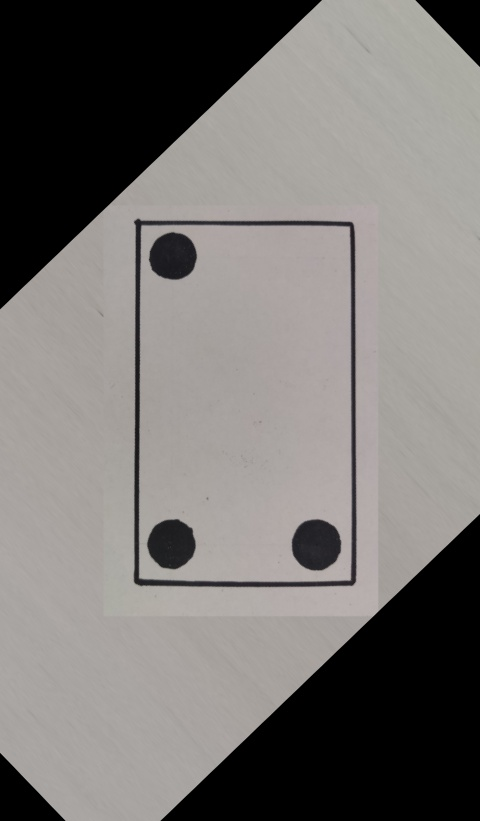
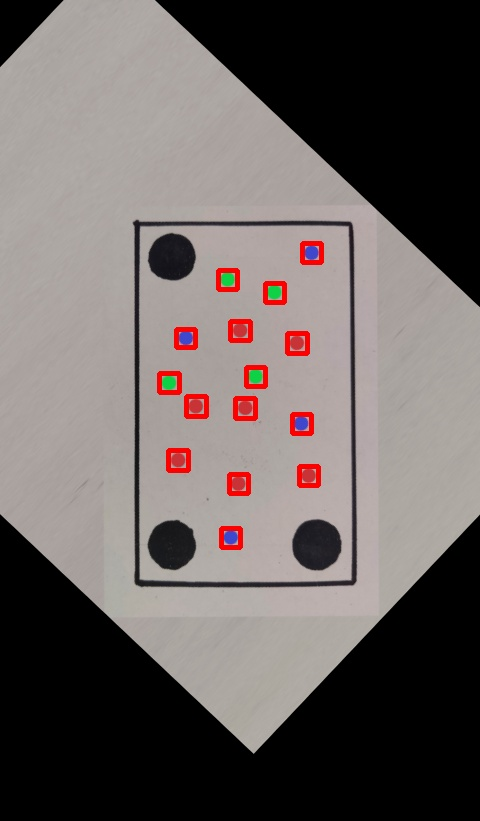
ok

diff --git a/components_detector.py b/components_detector.py
@@ -126,8 +126,8 @@ def Proceso(img_ubicacion, calibrar):
             centroides.append((int(cX), int(cY)))
             
             #Visualizar la imagen
-            #cv2.imshow(" ",output)
-            #cv2.waitKey(0)       
+            cv2.imshow(" ",output)
+            cv2.waitKey(0)       
     #imprimir los centroides guardados en el diccionario
     for centroid in centroides:
         cX, cY = centroid
@@ -173,8 +173,8 @@ def Proceso(img_ubicacion, calibrar):
     rotation_matrix = cv2.getRotationMatrix2D(Punto_centro_imagen, delta_theta_deg, 1.0)
     # Aplicar la matriz de transformación a la imagen
     rotated_image = cv2.warpAffine(image_translated.copy(), rotation_matrix, (image_translated.copy().shape[1], image_translated.copy().shape[0]))
-    #cv2.imshow('Imagen rotada', rotated_image)
-    #cv2.waitKey(0)
+    cv2.imshow('Imagen rotada', rotated_image)
+    cv2.waitKey(0)
     
     if(calibrar==True):
         global centroide_rojos_Original
@@ -212,8 +212,8 @@ def Proceso(img_ubicacion, calibrar):
     kernel = np.ones((5, 5), np.uint8)
     dilated_mask = cv2.dilate(mask, kernel, iterations=1)
     # Mostrar la imagen original y la imagen segmentada
-    #cv2.imshow('Imagen Segmentada ROJO', dilated_mask)
-    #cv2.waitKey(0)
+    cv2.imshow('Imagen Segmentada ROJO', dilated_mask)
+    cv2.waitKey(0)
     #cv2.destroyAllWindows()
     # Hacemos un threshold
     (T, threshImg) = cv2.threshold(dilated_mask, 0, 255, cv2.THRESH_BINARY_INV | cv2.THRESH_OTSU)
@@ -267,8 +267,8 @@ def Proceso(img_ubicacion, calibrar):
     kernel = np.ones((5, 5), np.uint8)
     dilated_mask = cv2.dilate(mask, kernel, iterations=1)
     # Mostrar la imagen original y la imagen segmentada
-    #cv2.imshow('Imagen Segmentada Azul', dilated_mask)
-    #cv2.waitKey(0)
+    cv2.imshow('Imagen Segmentada Azul', dilated_mask)
+    cv2.waitKey(0)
     #cv2.destroyAllWindows()
     # Hacemos un threshold
     (T, threshImg) = cv2.threshold(dilated_mask, 0, 255, cv2.THRESH_BINARY_INV | cv2.THRESH_OTSU)
@@ -317,8 +317,8 @@ def Proceso(img_ubicacion, calibrar):
     kernel = np.ones((5, 5), np.uint8)
     dilated_mask = cv2.dilate(mask, kernel, iterations=1)
     # Mostrar la imagen original y la imagen segmentada
-    #cv2.imshow('Imagen Segmentada VERDE', dilated_mask)
-    #cv2.waitKey(0)
+    cv2.imshow('Imagen Segmentada VERDE', dilated_mask)
+    cv2.waitKey(0)
     #cv2.destroyAllWindows()
     # Hacemos un threshold
     (T, threshImg) = cv2.threshold(dilated_mask, 0, 255, cv2.THRESH_BINARY_INV | cv2.THRESH_OTSU)
@@ -435,10 +435,10 @@ def Proceso(img_ubicacion, calibrar):
     NumeroPuntosIncorrectos=NumeroPuntosIncorrectos-NumeroPuntosRojos-NumeroPuntosAzules-NumeroPuntosVerdes 
     print(LyA_rojos_Original, LyA_azules_Original, LyA_verdes_Original)
     #Mostrar la imagen final
-    #cv2.imshow("Final",output)
+    cv2.imshow("Final",output)
     cv2.imwrite("output/output.jpg", output)
     # Esperar a que se presione una tecla y cerrar las ventanas 
-    #cv2.waitKey(0)
+    cv2.waitKey(0)
     #cv2.destroyAllWindows()
 
 ProgramaCalibrado=False
